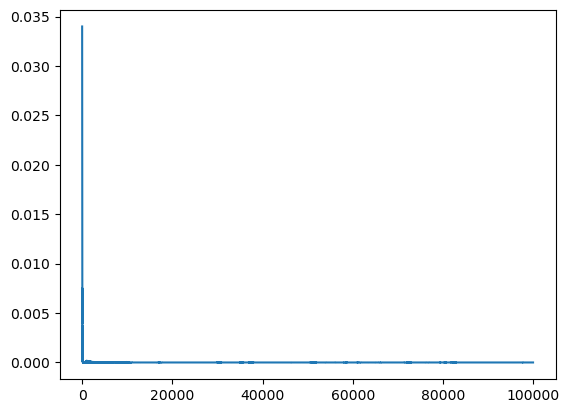
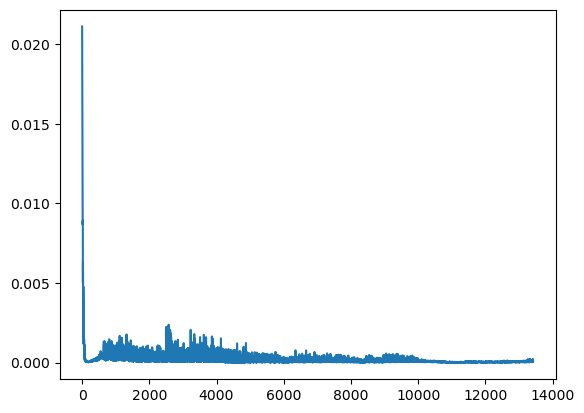
Yes, the DQN works, and it works so beautifully, too!

diff --git a/Homework2/gym_mountain_car_start.py b/Homework2/gym_mountain_car_start.py
@@ -4,6 +4,7 @@ from gymnasium.envs.classic_control.continuous_mountain_car import Continuous_Mo
 import pickle
 import random
 from agent import Agent
+from discretized_model import DiscretizedModel
 from matplotlib import pyplot as plt
 import tqdm
 
@@ -23,7 +24,6 @@ def modifyReward(state, next_state, action, reward, env: Continuous_MountainCarE
     next_position, next_velocity = next_state
     mechanical_energy_next = 0.5 * next_velocity * next_velocity + env._height(next_position)
     return mechanical_energy_next - mechanical_energy_current
-
 
 def discretizeState(state):
     """
@@ -56,7 +56,7 @@ if __name__ == "__main__":
         help="The number of episodes to run")
     args = parser.parse_args()
 
-    max_steps = 1000
+    max_steps = 1_000
     env: gym.wrappers = gym.make('MountainCarContinuous-v0', max_episode_steps=max_steps)
 
     # We can go up, down, left, or right
@@ -100,10 +100,10 @@ if __name__ == "__main__":
                 state = next_state
 
                 finished = terminated or truncated
-    env.close()
 
-    plt.plot(agent.loss_history)
-    plt.savefig("./plots/loss_history.png", format="png", bbox_inches="tight")
+        plt.plot(agent.loss_history)
+        plt.savefig("./plots/loss_history.png", format="png", bbox_inches="tight")
+    env.close()
 
     # Play with policy
     if args.record:
@@ -120,6 +120,11 @@ if __name__ == "__main__":
     # Run the simulation
     finished = False
 
+    num_steps = 0
+
+    if args.algorithm == "discretized":
+        discretized_model = DiscretizedModel(env.unwrapped)
+
     while not(finished):
         if args.algorithm == 'discretized':
             # The discretized model should not require learning, converging instead through value iteration.
@@ -129,14 +134,17 @@ if __name__ == "__main__":
             action = [0]
         else:
             # TODO Get the next action from your DQN
-            action = [0]
+            action_index = agent.choose_action_index(state)
+            action = agent.choose_action_from_index(action_index)
 
         # Take the action
         #print(f"Taking action {action} from state {state}")
         next_state, reward, terminated, truncated, info = env.step(action)
+        num_steps += 1
 
         # Update the state
         state = next_state
 
         finished = terminated or truncated
     env.close()
+    print(f"Num Steps to Solution: {num_steps}")

diff --git a/Homework2/discretized_model.py b/Homework2/discretized_model.py
@@ -1,0 +1,7 @@
+from gymnasium.envs.classic_control.continuous_mountain_car import Continuous_MountainCarEnv
+import numpy as np
+
+class DiscretizedModel:
+    def __init__(self, unwrapped_env: Continuous_MountainCarEnv):
+        self.pos_bins = np.linspace(unwrapped_env.min_position, unwrapped_env.max_position, endpoint=True)
+        self.vel_bins = np.linspace(-unwrapped_env.max_speed, unwrapped_env.max_speed, endpoint=True)
